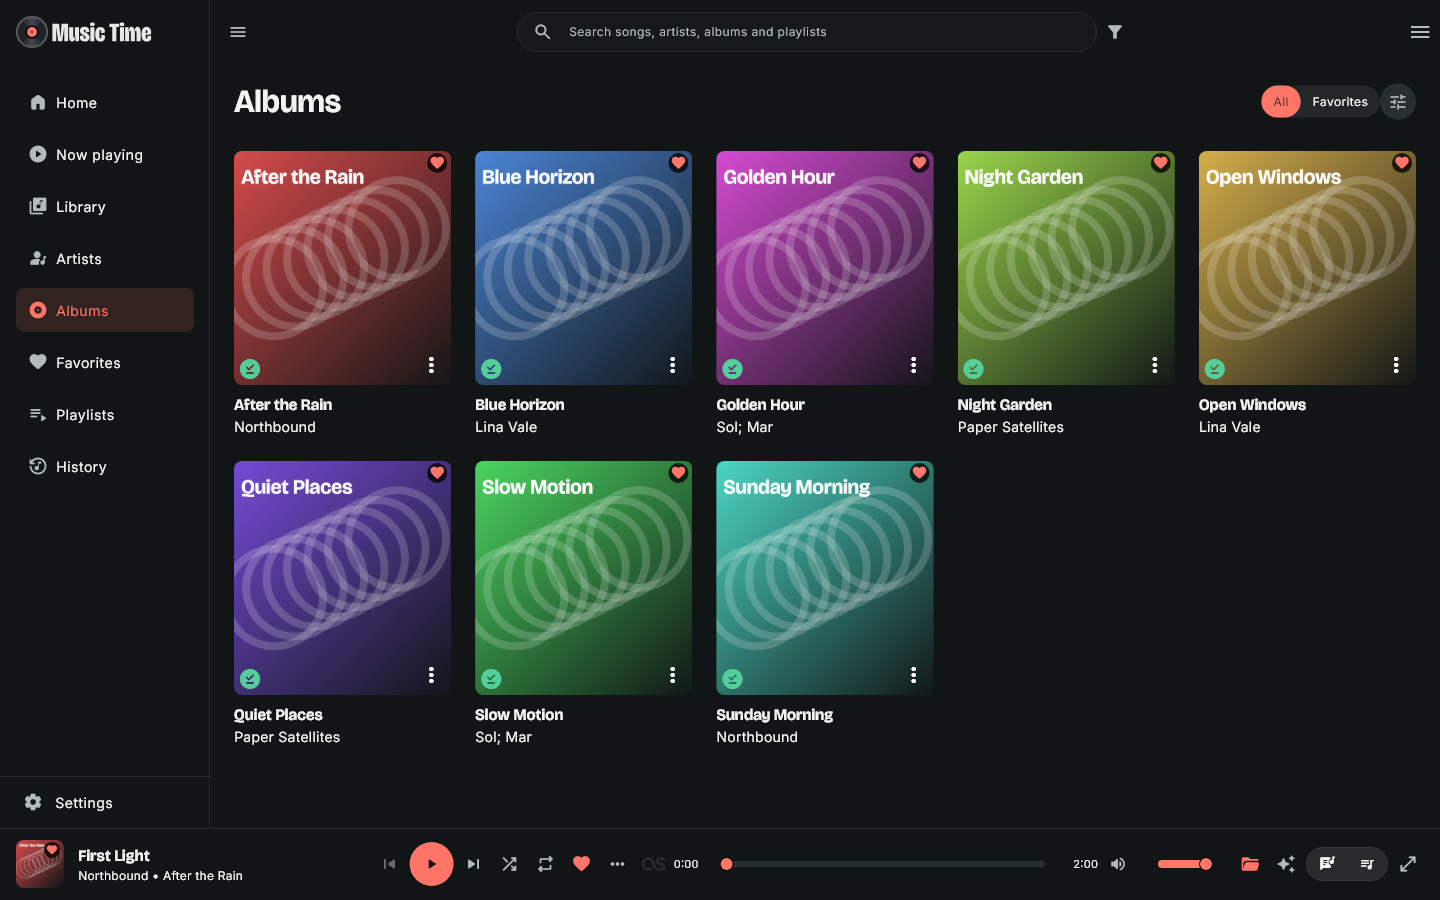
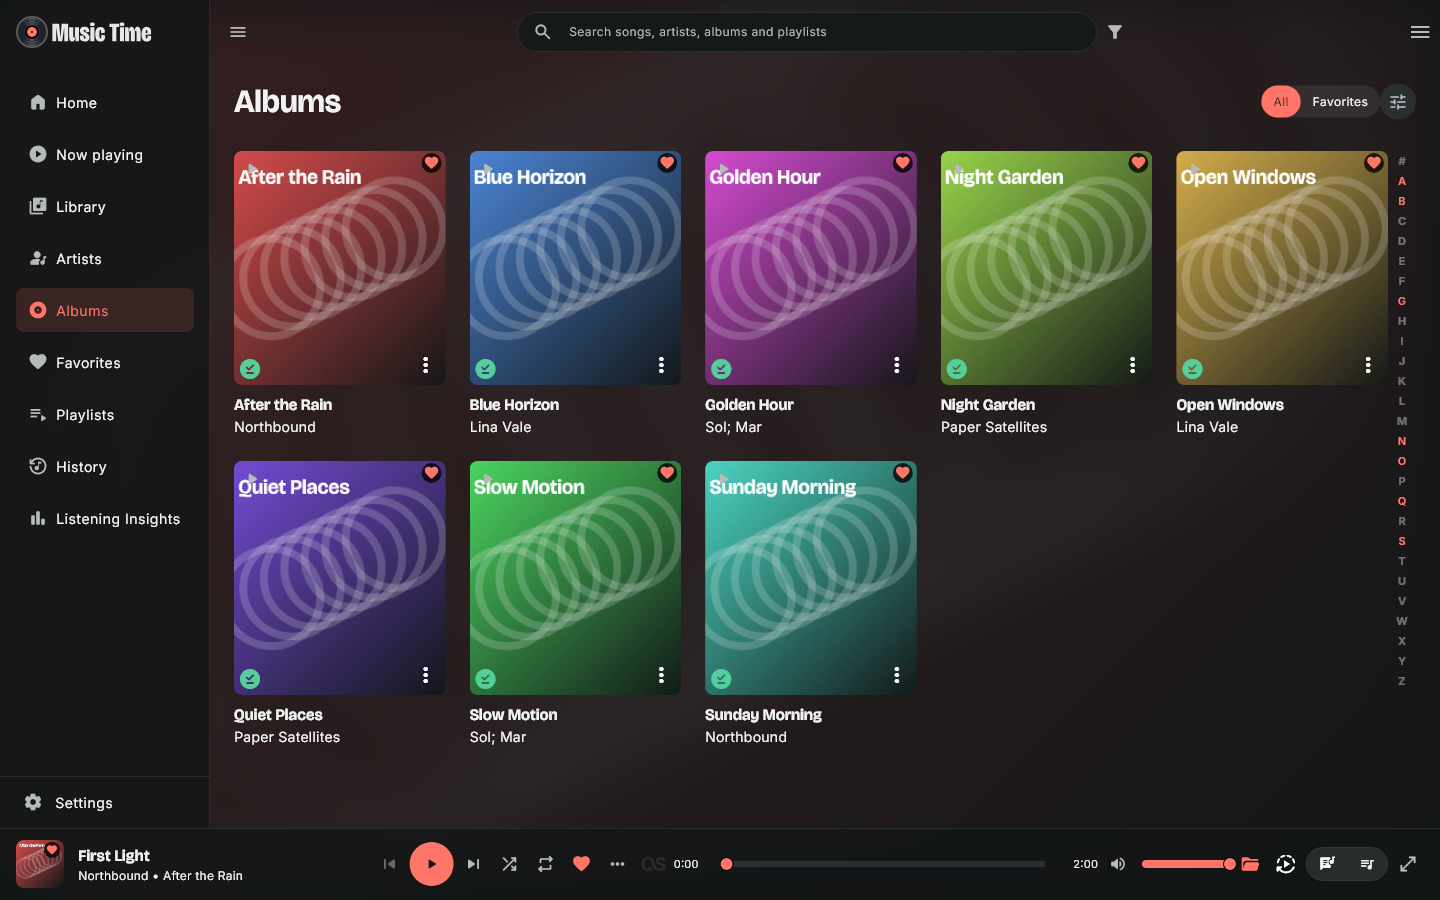
Refresh public gallery with Music Time 2.9.0 demo screenshots

Changed region(s): [[0.0312, 0.0, 1.0, 0.9022], [0.8438, 0.9333, 0.9062, 0.9644], [0.7812, 0.9333, 0.8125, 0.9644]]

diff --git a/README.md b/README.md
@@ -131,9 +131,9 @@ Google uses the **restricted** `drive.readonly` scope. Unverified/testing projec
 
 ## Screenshots
 
-These images render actual application widgets using a **fictional, isolated demonstration library**. The interface gallery was captured in 2.0; the Listening Insights screenshot is from 2.2. Album artwork and lyric text were created for the demo. They do not show personal accounts, a bundled music catalog or proof of a live cloud-service connection.
+These images render actual application widgets using a **fictional, isolated demonstration library**. The gallery shows Music Time 2.9.0. Album artwork and lyric text were created for the demo. They do not show personal accounts, a bundled music catalog or proof of a live cloud-service connection.
 
-| Library | Now Playing and queue |
+| Library | Now Playing |
 | --- | --- |
 | ![Library](docs/images/library.png) | ![Now Playing](docs/images/now-playing.png) |
 
@@ -145,7 +145,7 @@ These images render actual application widgets using a **fictional, isolated dem
 | --- | --- |
 | ![Playlists](docs/images/playlists.png) | ![Settings](docs/images/settings.png) |
 
-![Listening Insights with fictional listening data](docs/images/listening-insights.png)
+![Listening Insights before connecting an account](docs/images/listening-insights.png)
 
 ## Current limits
 

diff --git a/README.pt-BR.md b/README.pt-BR.md
@@ -87,7 +87,7 @@ Editar informações, mesclar entidades ou remover uma ocorrência de playlist *
 
 ## Capturas
 
-A galeria de interface foi capturada na 2.0 e a tela Listening Insights na 2.2, usando componentes reais e uma biblioteca fictícia isolada, com capas e textos criados para demonstração. Não são contas conectadas nem músicas incluídas no download.
+A galeria mostra o Music Time 2.9.0, usando componentes reais e uma biblioteca fictícia isolada, com capas e textos criados para demonstração. Não são contas conectadas nem músicas incluídas no download.
 
 | Biblioteca | Tocando agora e fila |
 | --- | --- |
